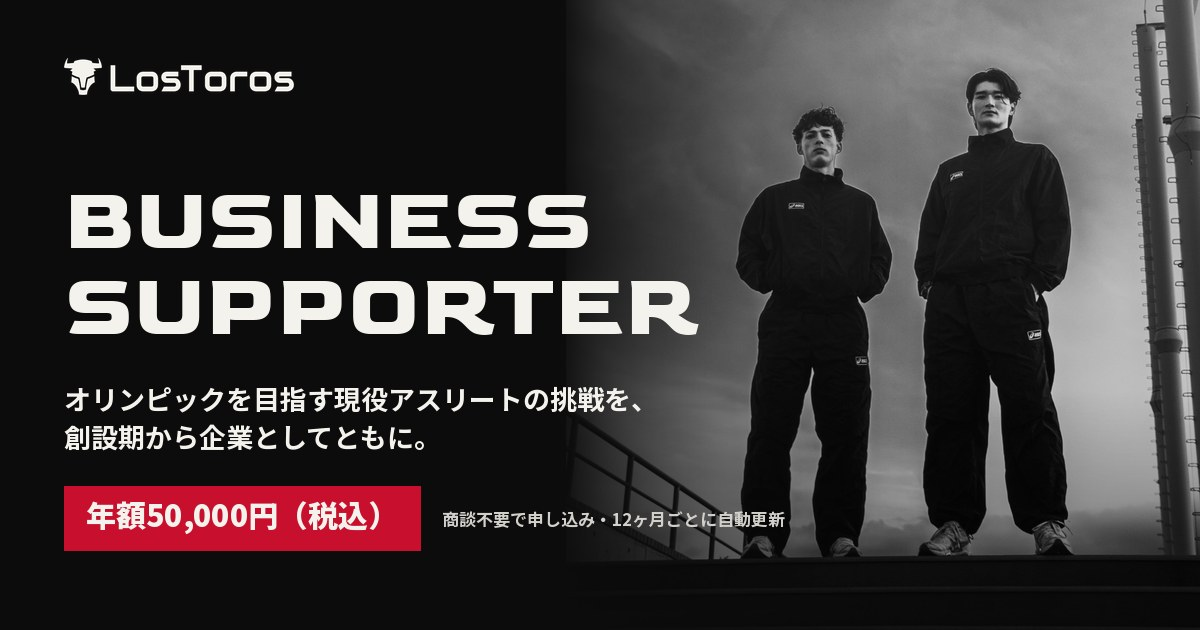
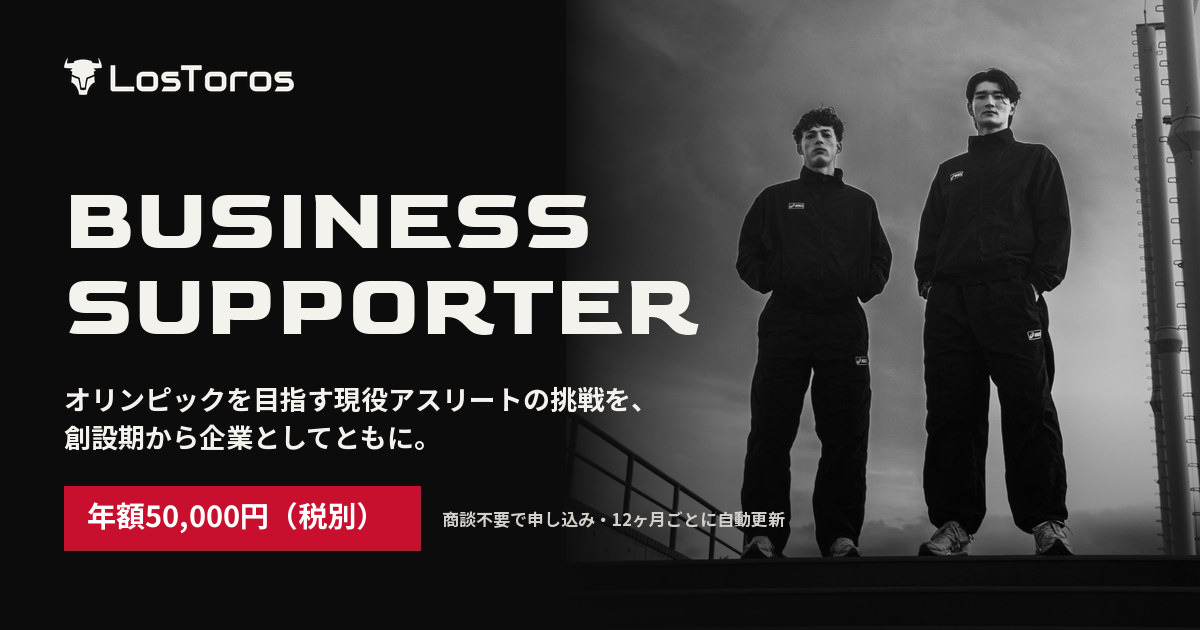
価格表記を税別へ統一し、請求額の税込55,000円を併記する
Squareの決済ページを確認したところ、すでに税別表記・請求額¥55,000へ
変更済みだった。サイトだけが「税込50,000円」のままで、
実際の請求額より5,000円安く見えている状態だったため、Squareに合わせた。

- 主表記を「年額 50,000 円（税別）」に変更（index.html・supporter/index.html 各7か所）
- 決済ボタンと価格ブロックには「税込 55,000 円」を併記。
  Squareの画面に¥55,000と出るため、併記しないと金額が増えたように見える
- 幅の狭い固定CTAのみ「年額50,000円＋税」と短く表記
- OGP画像の赤いバッジに焼き込まれた「（税込）」を「（税別）」へ描き直し
- GAの begin_checkout の金額を請求額に合わせて 50000 → 55000
- キャッシュ対策のバージョンを ?v=20261007 に更新

1280px・390pxで表示を確認。横スクロールとJSエラーなし。実決済は未実施。

Claude-Session: https://claude.ai/code/session_01Th5aEkt3xwEPDbxV4J7hzt

Changed region(s): [[0.0617, 0.7841, 0.3392, 0.8444]]

diff --git a/supporter/index.html b/supporter/index.html
@@ -4,7 +4,7 @@
   <meta charset="UTF-8">
   <meta name="viewport" content="width=device-width, initial-scale=1.0">
   <title>Business Supporter｜年額5万円で企業としてLosTorosに参画｜合同会社LosToros</title>
-  <meta name="description" content="オリンピックを目指す現役アスリートが運営する陸上スプリントチーム「LosToros Track Team」を、企業として年額50,000円（税込）で支援できるBusiness Supporterのご案内。公式サイトへのロゴ掲載、交流会への参加機会、スポンサー呼称権。商談不要でお申し込みいただけます。">
+  <meta name="description" content="オリンピックを目指す現役アスリートが運営する陸上スプリントチーム「LosToros Track Team」を、企業として年額50,000円（税別・税込55,000円）で支援できるBusiness Supporterのご案内。公式サイトへのロゴ掲載、交流会への参加機会、スポンサー呼称権。商談不要でお申し込みいただけます。">
   <link rel="canonical" href="https://lostoros.net/supporter/">
   <link rel="icon" href="/favicon.ico" sizes="any">
   <link rel="icon" href="/assets/favicon-96.png" type="image/png" sizes="96x96">
@@ -15,7 +15,7 @@
   <meta property="og:type" content="website">
   <meta property="og:site_name" content="合同会社LosToros">
   <meta property="og:title" content="Business Supporter｜年額5万円で企業としてLosTorosに参画">
-  <meta property="og:description" content="オリンピックを目指す現役アスリートの挑戦を、創設期から企業としてともに。年額50,000円（税込）・商談不要でお申し込みいただけます。">
+  <meta property="og:description" content="オリンピックを目指す現役アスリートの挑戦を、創設期から企業としてともに。年額50,000円（税別・税込55,000円）・商談不要でお申し込みいただけます。">
   <meta property="og:url" content="https://lostoros.net/supporter/">
   <meta property="og:image" content="https://lostoros.net/assets/ogp-supporter.jpg">
   <meta property="og:image:width" content="1200">
@@ -56,7 +56,7 @@
   <link rel="preconnect" href="https://fonts.googleapis.com">
   <link rel="preconnect" href="https://fonts.gstatic.com" crossorigin>
   <link href="https://fonts.googleapis.com/css2?family=Goldman:wght@400;700&family=Space+Mono:wght@400;700&family=Noto+Sans+JP:wght@400;500;700;900&display=swap" rel="stylesheet">
-  <link rel="stylesheet" href="/css/style.css?v=20260928">
+  <link rel="stylesheet" href="/css/style.css?v=20261007">
 </head>
 <body>
 
@@ -91,7 +91,7 @@
 
       <h1 class="sub-hero-title">BUSINESS<br>SUPPORTER</h1>
       <p class="sub-hero-lead">オリンピックを目指す現役アスリートの挑戦を、<br class="pc">創設期から、企業としてともに。</p>
-      <p class="sub-hero-price mono">年額 <strong>50,000</strong> 円（税込）<span>12ヶ月ごとに自動更新</span></p>
+      <p class="sub-hero-price mono">年額 <strong>50,000</strong> 円（税別）<span>税込55,000円・12ヶ月ごとに自動更新</span></p>
 
       <div class="sub-hero-actions">
         <a class="btn-red" href="#plan">加入内容を見る <span aria-hidden="true">↓</span></a>
@@ -109,8 +109,8 @@
         <h2 class="section-title">WHAT<br>YOU GET</h2>
         <div class="sp-copy">
           <p class="lead">商談は不要。<br>内容を確認して、そのままお申し込み。</p>
-          <p>Business Supporterは、年額50,000円でLosTorosに参画できる企業向けプランです。このページで内容を確認し、そのままお申し込みいただけます。</p>
-          <p class="sp-price mono">年額 <strong>50,000</strong> 円（税込）</p>
+          <p>Business Supporterは、年額50,000円（税別）でLosTorosに参画できる企業向けプランです。このページで内容を確認し、そのままお申し込みいただけます。</p>
+          <p class="sp-price mono">年額 <strong>50,000</strong> 円（税別）<span class="sp-price-incl">税込 55,000 円</span></p>
           <p class="sp-renew mono">12ヶ月ごとに自動更新／解約はいつでも可能です</p>
         </div>
       </div>
@@ -140,10 +140,10 @@
       <div class="sp-cta">
         <a class="btn-red sp-apply" href="https://checkout.square.site/merchant/ML0T9EW3MMN9M/checkout/W4OKDYD2RMRS367KOMCCIICW">
           <span>申し込む・決済へ進む <span aria-hidden="true">→</span></span>
-          <span class="sp-apply-price mono">年額 50,000円（税込）</span>
+          <span class="sp-apply-price mono">年額 50,000円（税別）／ 税込 55,000円</span>
         </a>
         <p class="sp-note sp-note--cta">
-          Squareの決済ページへ移動します。年額50,000円（税込）・12ヶ月ごとの自動更新です。<br class="pc">
+          Squareの決済ページへ移動します。年額50,000円（税別）、お支払い額は税込55,000円です。12ヶ月ごとに自動更新されます。<br class="pc">
           特典の詳細・解約についてのご質問は<a class="sp-link" href="/#contact-form">お問い合わせ</a>ください。
         </p>
       </div>
@@ -243,7 +243,7 @@
 
   <div class="grain" aria-hidden="true"></div>
 
-  <script src="/js/analytics.js?v=20260928-ga"></script>
-  <script src="/js/main.js?v=20260928"></script>
+  <script src="/js/analytics.js?v=20261007-ga"></script>
+  <script src="/js/main.js?v=20261007"></script>
 </body>
 </html>

diff --git a/index.html b/index.html
@@ -160,7 +160,7 @@
   <link rel="preconnect" href="https://fonts.googleapis.com">
   <link rel="preconnect" href="https://fonts.gstatic.com" crossorigin>
   <link href="https://fonts.googleapis.com/css2?family=Goldman:wght@400;700&family=Space+Mono:wght@400;700&family=Noto+Sans+JP:wght@400;500;700;900&display=swap" rel="stylesheet">
-  <link rel="stylesheet" href="css/style.css?v=20260928">
+  <link rel="stylesheet" href="css/style.css?v=20261007">
 </head>
 <body>
 
@@ -220,7 +220,7 @@
         </div>
         <div class="hero-offer-action">
           <a class="btn-red" href="#supporter">加入内容・申込へ <span aria-hidden="true">→</span></a>
-          <p>年額50,000円（税込）・12ヶ月ごとに自動更新</p>
+          <p>年額50,000円（税別）・12ヶ月ごとに自動更新</p>
         </div>
       </div>
     </section>
@@ -256,8 +256,8 @@
         <h2 class="section-title">BUSINESS<br>SUPPORTER</h2>
         <div class="sp-copy">
           <p class="lead">創設期の挑戦を、<br>あなたの企業とともに。</p>
-          <p>Business Supporterは、年額50,000円でLosTorosに参画できる企業向けプランです。商談は不要。このページで内容を確認し、そのままお申し込みいただけます。</p>
-          <p class="sp-price mono">年額 <strong>50,000</strong> 円（税込）</p>
+          <p>Business Supporterは、年額50,000円（税別）でLosTorosに参画できる企業向けプランです。商談は不要。このページで内容を確認し、そのままお申し込みいただけます。</p>
+          <p class="sp-price mono">年額 <strong>50,000</strong> 円（税別）<span class="sp-price-incl">税込 55,000 円</span></p>
           <p class="sp-renew mono">12ヶ月ごとに自動更新／解約はいつでも可能です</p>
         </div>
       </div>
@@ -289,10 +289,10 @@
       <div class="sp-cta">
         <a class="btn-red sp-apply" href="https://checkout.square.site/merchant/ML0T9EW3MMN9M/checkout/W4OKDYD2RMRS367KOMCCIICW">
           <span>申し込む・決済へ進む <span aria-hidden="true">→</span></span>
-          <span class="sp-apply-price mono">年額 50,000円（税込）</span>
+          <span class="sp-apply-price mono">年額 50,000円（税別）／ 税込 55,000円</span>
         </a>
         <p class="sp-note sp-note--cta">
-          Squareの決済ページへ移動します。年額50,000円（税込）・12ヶ月ごとの自動更新です。<br class="pc">
+          Squareの決済ページへ移動します。年額50,000円（税別）、お支払い額は税込55,000円です。12ヶ月ごとに自動更新されます。<br class="pc">
           特典の詳細・解約についてのご質問は<a class="sp-link" href="#contact-form" data-inquiry="PARTNERSHIP / 企業とのパートナーシップ">お問い合わせ</a>ください。
         </p>
       </div>
@@ -637,7 +637,7 @@
           <aside class="pt-plan-entry">
             <p class="pt-entry-label mono">ENTRY PLAN</p>
             <p class="pt-entry-name">Business Supporter</p>
-            <p class="pt-entry-price">年額 <strong>50,000</strong> 円（税込）</p>
+            <p class="pt-entry-price">年額 <strong>50,000</strong> 円（税別）</p>
             <p class="pt-entry-note">商談なしでお申し込みいただける、最もシンプルな参画方法です。</p>
             <a class="btn-outline" href="#supporter">内容を見る</a>
           </aside>
@@ -768,12 +768,12 @@
   </footer>
 
   <aside class="supporter-sticky" id="supporterSticky" aria-label="Business Supporterへの参画" hidden>
-    <a href="#supporter"><span>年額50,000円（税込）</span><strong>加入内容・申込へ <span aria-hidden="true">→</span></strong></a>
+    <a href="#supporter"><span>年額50,000円＋税</span><strong>加入内容・申込へ <span aria-hidden="true">→</span></strong></a>
   </aside>
 
   <div class="grain" aria-hidden="true"></div>
 
-  <script src="js/analytics.js?v=20260928-ga"></script>
-  <script src="js/main.js?v=20260928"></script>
+  <script src="js/analytics.js?v=20261007-ga"></script>
+  <script src="js/main.js?v=20261007"></script>
 </body>
 </html>

diff --git a/js/analytics.js b/js/analytics.js
@@ -6,7 +6,7 @@
 // 標準の計測（ページの閲覧数・スクロール・外部リンクのクリック等）に加えて、
 // 加入導線の効果を測るため、次のイベントを送る。
 //
-//   begin_checkout   Squareの決済ページへ進むボタンを押した（年額50,000円）
+//   begin_checkout   Squareの決済ページへ進むボタンを押した（年額50,000円＋税・請求額55,000円）
 //   supporter_cta    「加入内容・申込へ」系のボタンを押した（どこのボタンかを location で区別）
 //   inquiry_cta      「この事業について相談する」等を押した（種別を inquiry_type で区別）
 //   generate_lead    お問い合わせフォームの送信が成功した
@@ -58,10 +58,11 @@
 
     if (href.indexOf('checkout.square.site') !== -1) {
       // 同じタブでSquareへ移動するため、ページを離れても届く送信方式を使う
+      // 金額はSquareが実際に請求する税込55,000円（年額50,000円＋消費税）に合わせている
       track('begin_checkout', {
         currency: 'JPY',
-        value: 50000,
-        items: [{ item_name: 'Business Supporter', price: 50000, quantity: 1 }],
+        value: 55000,
+        items: [{ item_name: 'Business Supporter', price: 55000, quantity: 1 }],
         link_location: locationOf(a),
         transport_type: 'beacon'
       });

diff --git a/privacy/index.html b/privacy/index.html
@@ -20,7 +20,7 @@
   <link rel="preconnect" href="https://fonts.googleapis.com">
   <link rel="preconnect" href="https://fonts.gstatic.com" crossorigin>
   <link href="https://fonts.googleapis.com/css2?family=Goldman:wght@400;700&family=Space+Mono:wght@400;700&family=Noto+Sans+JP:wght@400;500;700;900&display=swap" rel="stylesheet">
-  <link rel="stylesheet" href="/css/style.css?v=20260928">
+  <link rel="stylesheet" href="/css/style.css?v=20261007">
 </head>
 <body>
 
@@ -114,7 +114,7 @@
 
   <div class="grain" aria-hidden="true"></div>
 
-  <script src="/js/analytics.js?v=20260928-ga"></script>
-  <script src="/js/main.js?v=20260928"></script>
+  <script src="/js/analytics.js?v=20261007-ga"></script>
+  <script src="/js/main.js?v=20261007"></script>
 </body>
 </html>

diff --git a/css/style.css b/css/style.css
@@ -1085,6 +1085,15 @@ a { color: inherit; }
 
 .sp-price strong { font-size: 30px; }
 
+/* 実際の請求額（税込）。税別だけ出すと決済画面で金額が増えて驚かせるため併記する */
+.sp-price-incl {
+  display: inline-block;
+  margin-left: 12px;
+  font-size: 11.5px;
+  letter-spacing: .06em;
+  opacity: .75;
+}
+
 /* 自動更新は申し込み前に必ず見せる。価格のすぐ下に置く */
 .sp-renew {
   font-size: 11.5px;

diff --git a/CLAUDE.md b/CLAUDE.md
@@ -1,7 +1,7 @@
 # CLAUDE.md — 合同会社LosToros コーポレートサイト
 
 新しいセッションで前提説明なしに作業を再開するための引き継ぎ書。
-最終更新: 2026-09-30
+最終更新: 2026-10-07
 
 **まず「作業開始時に必ず最新へ同期する」を読むこと。**
 このリポジトリは Claude Code・Codex・手作業が交代で触るため、
@@ -200,10 +200,11 @@ docs/
 
 ### 価格・条件の記載箇所（変更時はすべて直す）
 
-年額50,000円（税込）・12ヶ月自動更新・3特典は次の場所に書かれている。
+年額50,000円（**税別**。請求額は税込55,000円）・12ヶ月自動更新・3特典は次の場所に書かれている。
 `index.html`：ヒーロー（`.hero-offer`）、`#supporter`、PARTNERの `.pt-plan-entry`、
 固定CTA（`#supporterSticky`）／ `supporter/index.html`：ヒーロー、`#plan`／
-`assets/ogp-supporter.jpg`（画像。作り直しが必要）／ `js/analytics.js` の `value: 50000`。
+`assets/ogp-supporter.jpg`（画像の赤いバッジに焼き込み。作り直しが必要）／
+`js/analytics.js` の `value` と `price`（**請求額に合わせて 55000**）。
 **Squareの決済リンクは `index.html` と `supporter/index.html` に1か所ずつ。**
 
 ### アクセス解析（Googleアナリティクス 4）
@@ -212,7 +213,7 @@ docs/
   `js/analytics.js` の `GA_MEASUREMENT_ID` に記載。空にすると計測が止まる
 - GAプロパティは池田さんのGoogleアカウント（ikeda@…）で作成。拡張計測機能はON
 - 標準の計測に加えて次のイベントを送る:
-  `begin_checkout`（Squareへ進むボタン・50,000円）/ `supporter_cta`（加入案内ボタン・設置場所つき）/
+  `begin_checkout`（Squareへ進むボタン・税込55,000円）/ `supporter_cta`（加入案内ボタン・設置場所つき）/
   `inquiry_cta`（事業ごとの相談ボタン）/ `generate_lead`（フォーム送信成功）/
   `section_view`（1秒以上表示されたセクション。どこで離脱したかを見る）
 - `begin_checkout` と `generate_lead` はGA側で「キーイベント」に登録済み
@@ -220,10 +221,10 @@ docs/
 
 ### Business Supporterの加入導線強化（Codex・2026-09-21）
 
-**直近の最優先は年額50,000円（税込）のBusiness Supporter加入獲得。**
+**直近の最優先は年額50,000円（税別）のBusiness Supporter加入獲得。**
 企業支援の実績は現時点ではないため、実績セクション追加は後日とする（池田さん指示）。
 
-- トップに3特典・税込年額・自動更新と `#supporter` への加入CTAを追加。
+- トップに3特典・年額・自動更新と `#supporter` への加入CTAを追加。
 - 既存の申込セクションをチーム紹介の直後へ移動。番号を全体で更新。
 - ナビのPHILOSOPHY枠を「年額5万円で参画」に変更（理念の本文は残す）。
   CONTACTは `#contact-form` へ直接移動する。
@@ -348,7 +349,8 @@ HERO →「WHY PARTNER WITH LOSTOROS」(5項目) → 「PARTNERSHIP EXAMPLES」(
      同じ項目を2回入力させると離脱するため、**サイトのフォームを廃止**し
      ボタンから決済ページへ直接飛ばす形にした（池田さんの判断）
    - 失われたのは「ご連絡事項（任意）」のみ。お問い合わせフォームで代替できる
-   - **決済は年額50,000円のサブスクリプションで、12ヶ月ごとに自動更新される。**
+   - **決済は年額50,000円（税別）のサブスクリプションで、12ヶ月ごとに自動更新される。
+     Squareが実際に請求するのは税込55,000円**（2026-10-07にSquare・サイトとも税別表記へ統一）。
      サイトに自動更新の明記が必須（`.sp-renew` と CTA下の注記）。
      金額や更新条件をSquare側で変えたら、**サイトの記載も必ず合わせること**
    - 決済リンク: `https://checkout.square.site/merchant/ML0T9EW3MMN9M/checkout/W4OKDYD2RMRS367KOMCCIICW`
@@ -478,7 +480,7 @@ HERO →「WHY PARTNER WITH LOSTOROS」(5項目) → 「PARTNERSHIP EXAMPLES」(
       受領したら PARTNERSHIP PLAN に反映する
 - [x] ~~**Googleアナリティクスの測定ID**~~ → 設定済み（2026-09-28）
 - [x] ~~**GAでキーイベントを指定**~~ → `begin_checkout` と `generate_lead` を登録済み（2026-09-28・池田さん作業）。
-      作成方法は「コードを使用して作成」、デフォルト値は「設定しない」（サイト側が50,000円を送るため）。
+      作成方法は「コードを使用して作成」、デフォルト値は「設定しない」（サイト側が金額を送るため）。
       ※「コードなしで作成」は page_view を条件にした別イベントが作られてしまうので使わない
 - [ ] **利用規約ページ**。Business Supporter 申込前の規約確認用。**解約の方法・返金の有無・
       特典の提供時期**が未決定。サイトには「解約はいつでも可能」とだけあり、方法の記載がない

diff --git a/docs/changes/2026-10-07-tax-exclusive-pricing.md b/docs/changes/2026-10-07-tax-exclusive-pricing.md
@@ -1,0 +1,58 @@
+# 価格表記を税別へ統一
+
+日付: 2026-10-07 / 実装: Claude Code / 依頼者: 池田海
+
+## 経緯
+
+池田さんから「税込50,000円になってしまっているので、50,000円＋税という形にしてほしい」
+との依頼。着手前にSquareの決済ページを実際に開いて確認したところ、
+**Square側はすでに税別表記・請求額¥55,000へ変更済み**だった。
+
+つまりサイトだけが「税込50,000円」のままで、**実際の請求額より5,000円安く見えている**
+状態だった。サイトをSquareに合わせる形で修正した。
+
+## 方針
+
+- **主表記は「年額 50,000 円（税別）」**（依頼のとおり）
+- **決済直前と価格ブロックには「税込 55,000 円」を併記**する。
+  Squareの決済ページには¥55,000と出るため、併記しないと金額が増えたように見える
+- 幅の狭い固定CTAのみ「年額50,000円＋税」と短く表記
+
+## 変更内容（14か所＋画像＋計測）
+
+| ファイル | 変更 |
+|---|---|
+| index.html | ヒーロー注記、`#supporter` の本文・価格ブロック、決済ボタン、Square注記、PARTNERのプラン表、固定CTA（計7か所） |
+| supporter/index.html | meta description、og:description、ヒーロー価格、本文、価格ブロック、決済ボタン、Square注記（計7か所） |
+| css/style.css | `.sp-price-incl`（税込併記の小さい文字）を追加 |
+| js/analytics.js | `begin_checkout` の `value`・`price` を 50000 → **55000**（Squareの請求額に合わせた）。コメントも更新 |
+| assets/ogp-supporter.jpg | 赤いバッジの「年額50,000円（税込）」を「（税別）」に差し替え |
+| 3ページ | キャッシュ対策のバージョンを `?v=20261007` に更新 |
+
+### OGP画像の差し替え方法
+
+元の合成データが無いため、既存のJPEGのバッジ部分だけを描き直した。
+
+1. ブランド赤 `#c8102e` の画素を探してバッジ範囲を特定（x64..419 / y486..549）
+2. その矩形を `#c8102e` で塗り直す
+3. Noto Sans JP Bold 29pt でテキストを再描画。
+   元のインク範囲（x87..378 / y502..533）に合わせる
+4. `quality=92, subsampling=0` で保存（赤と白の境界が滲まないよう4:4:4）
+
+フォントは Google Fonts API を古いUser-Agentで叩き、`&text=` で必要な字だけ取得した
+（引き継ぎ書「この作業環境の癖」の手順）。
+
+## 検証
+
+- トップ・`/supporter/` を 1280px / 390px で表示。横スクロールなし・JSエラーなし
+- 「50,000」を含む行に税別・＋税のいずれも無いものが残っていないことをコードで確認
+- 画像は差し替え後のインク範囲を測り直し、元（x87..378 / y502..533）と
+  ほぼ一致（x88..365 / y503..532）することを確認
+- **実決済は未実施**
+
+## 池田さんの確認待ち
+
+- **請求書・領収書の表記**が税別・税込どちらでも矛盾しないか
+- インボイス登録番号（TODOのまま未確認）
+- GAの `value` を税込55,000にしているが、売上としては税抜50,000で見たい場合は
+  `js/analytics.js` を 50000 に戻す
